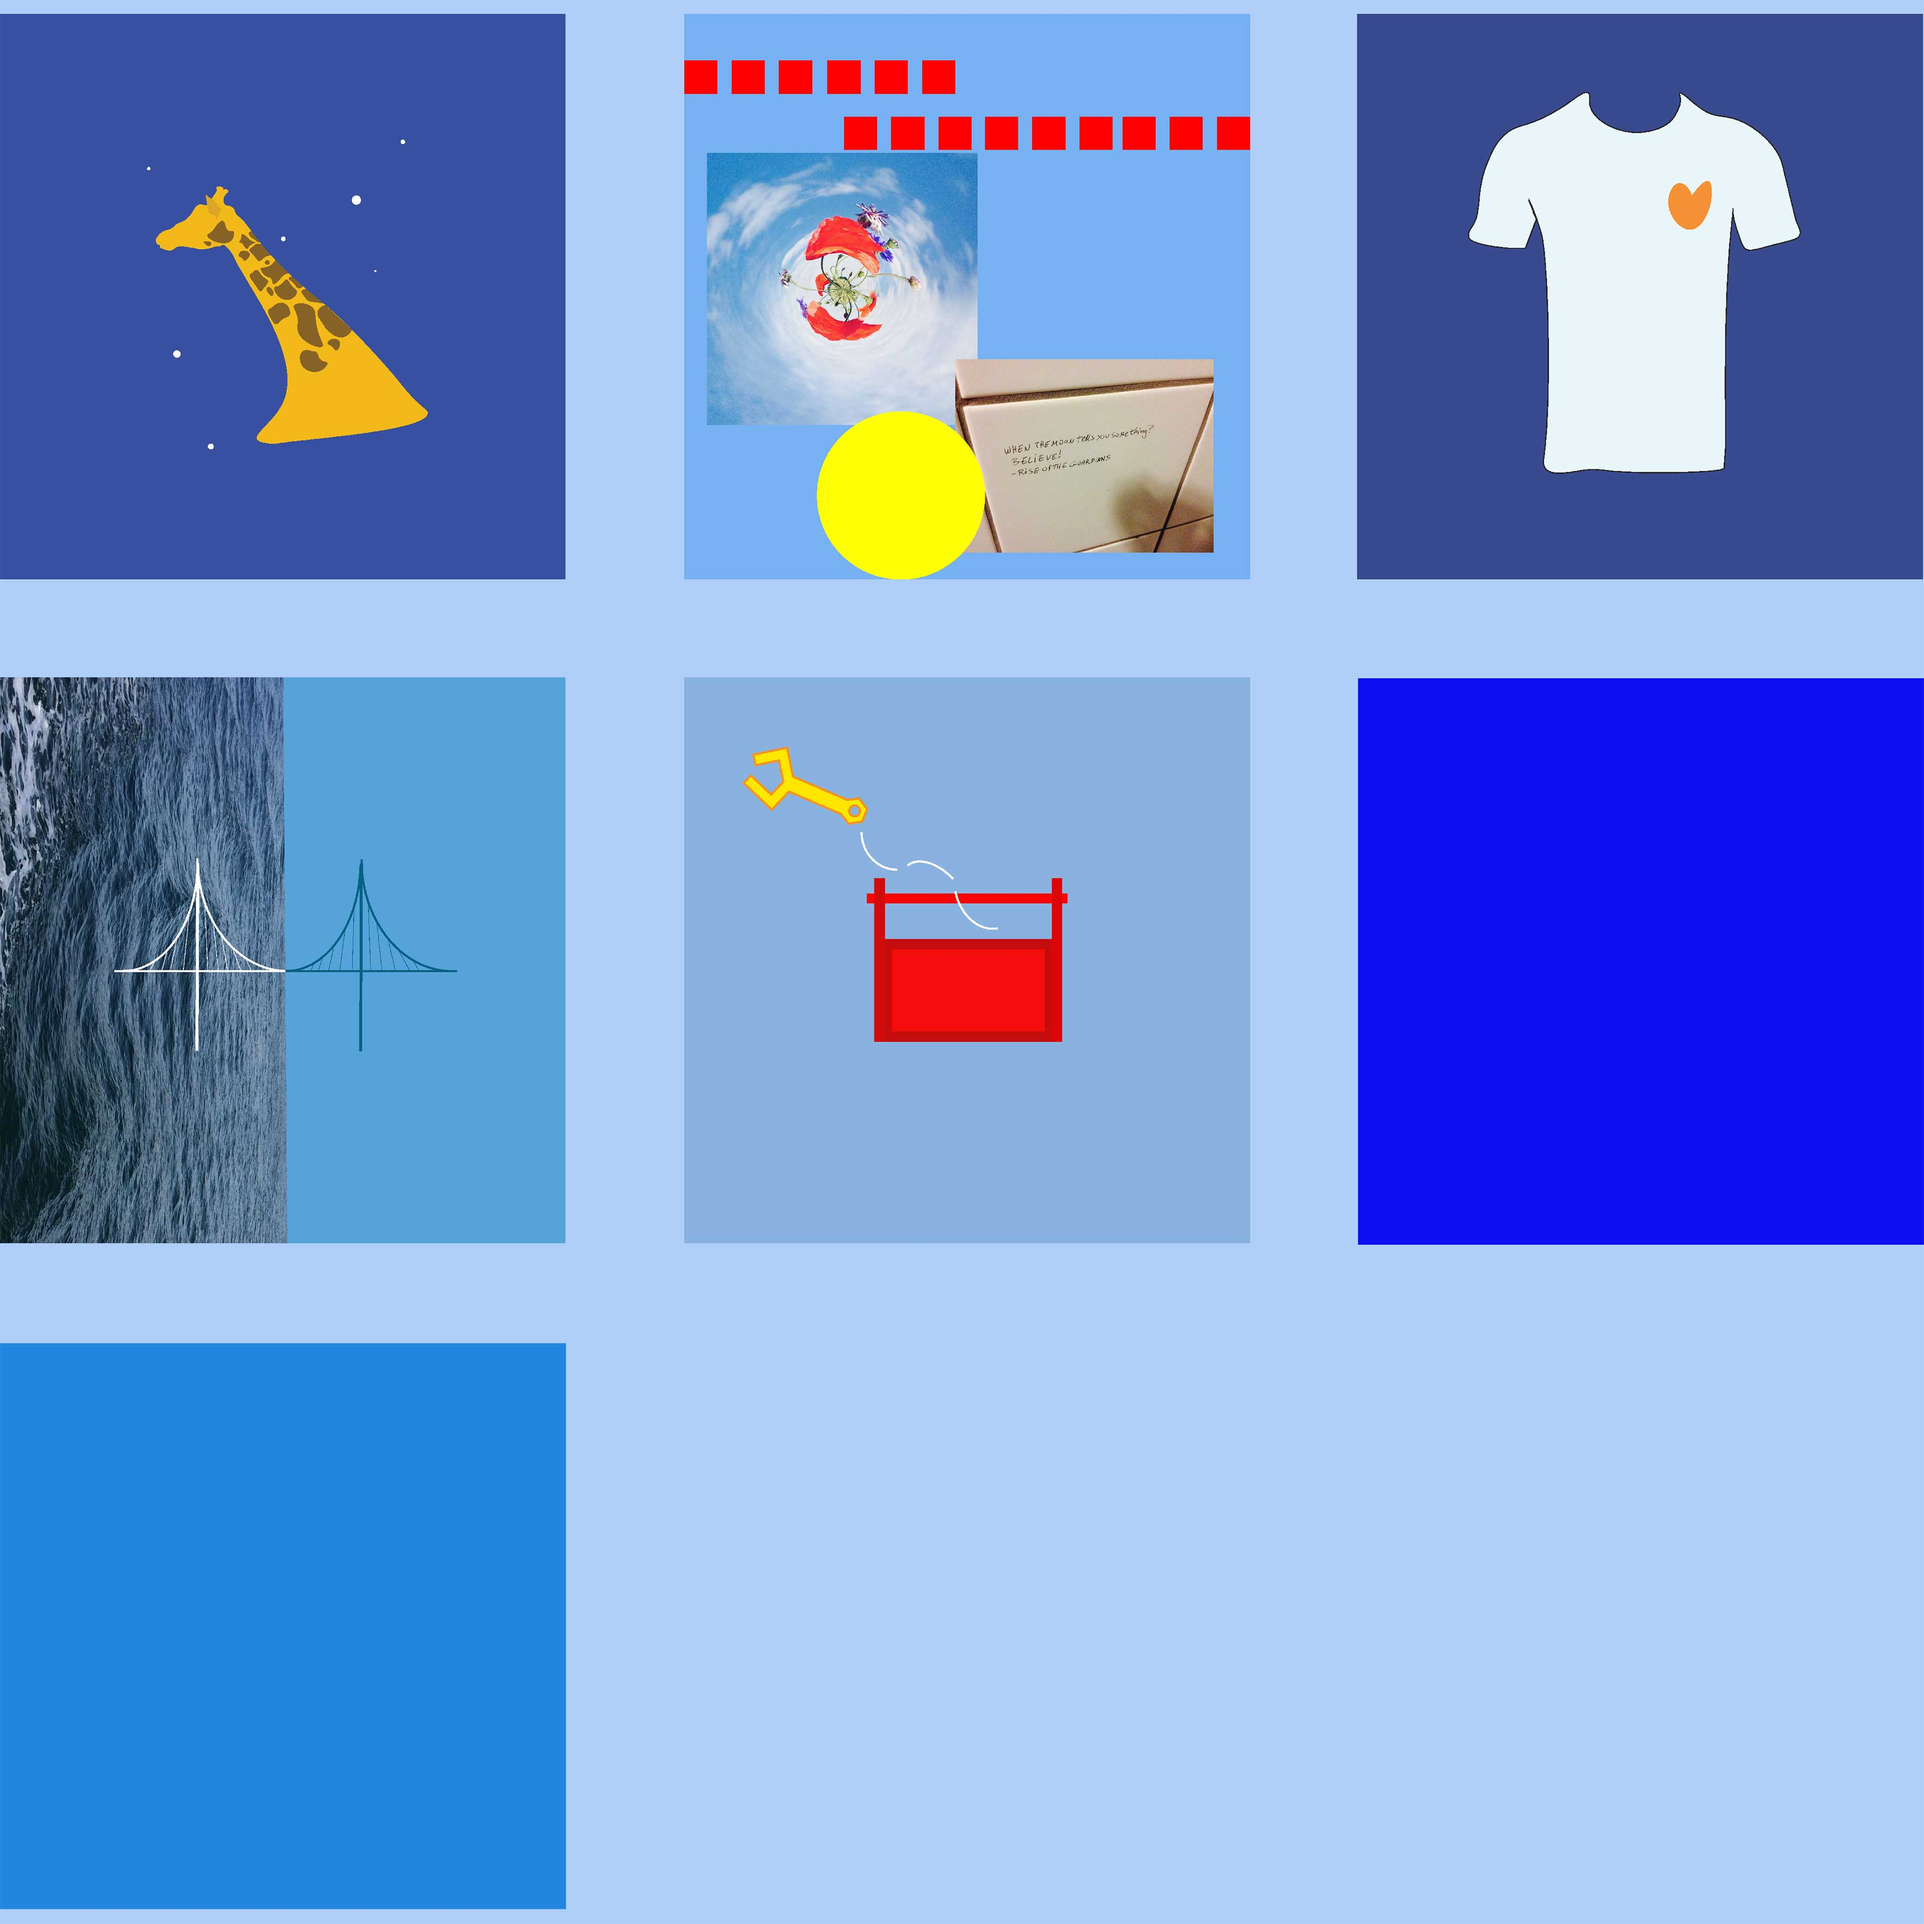
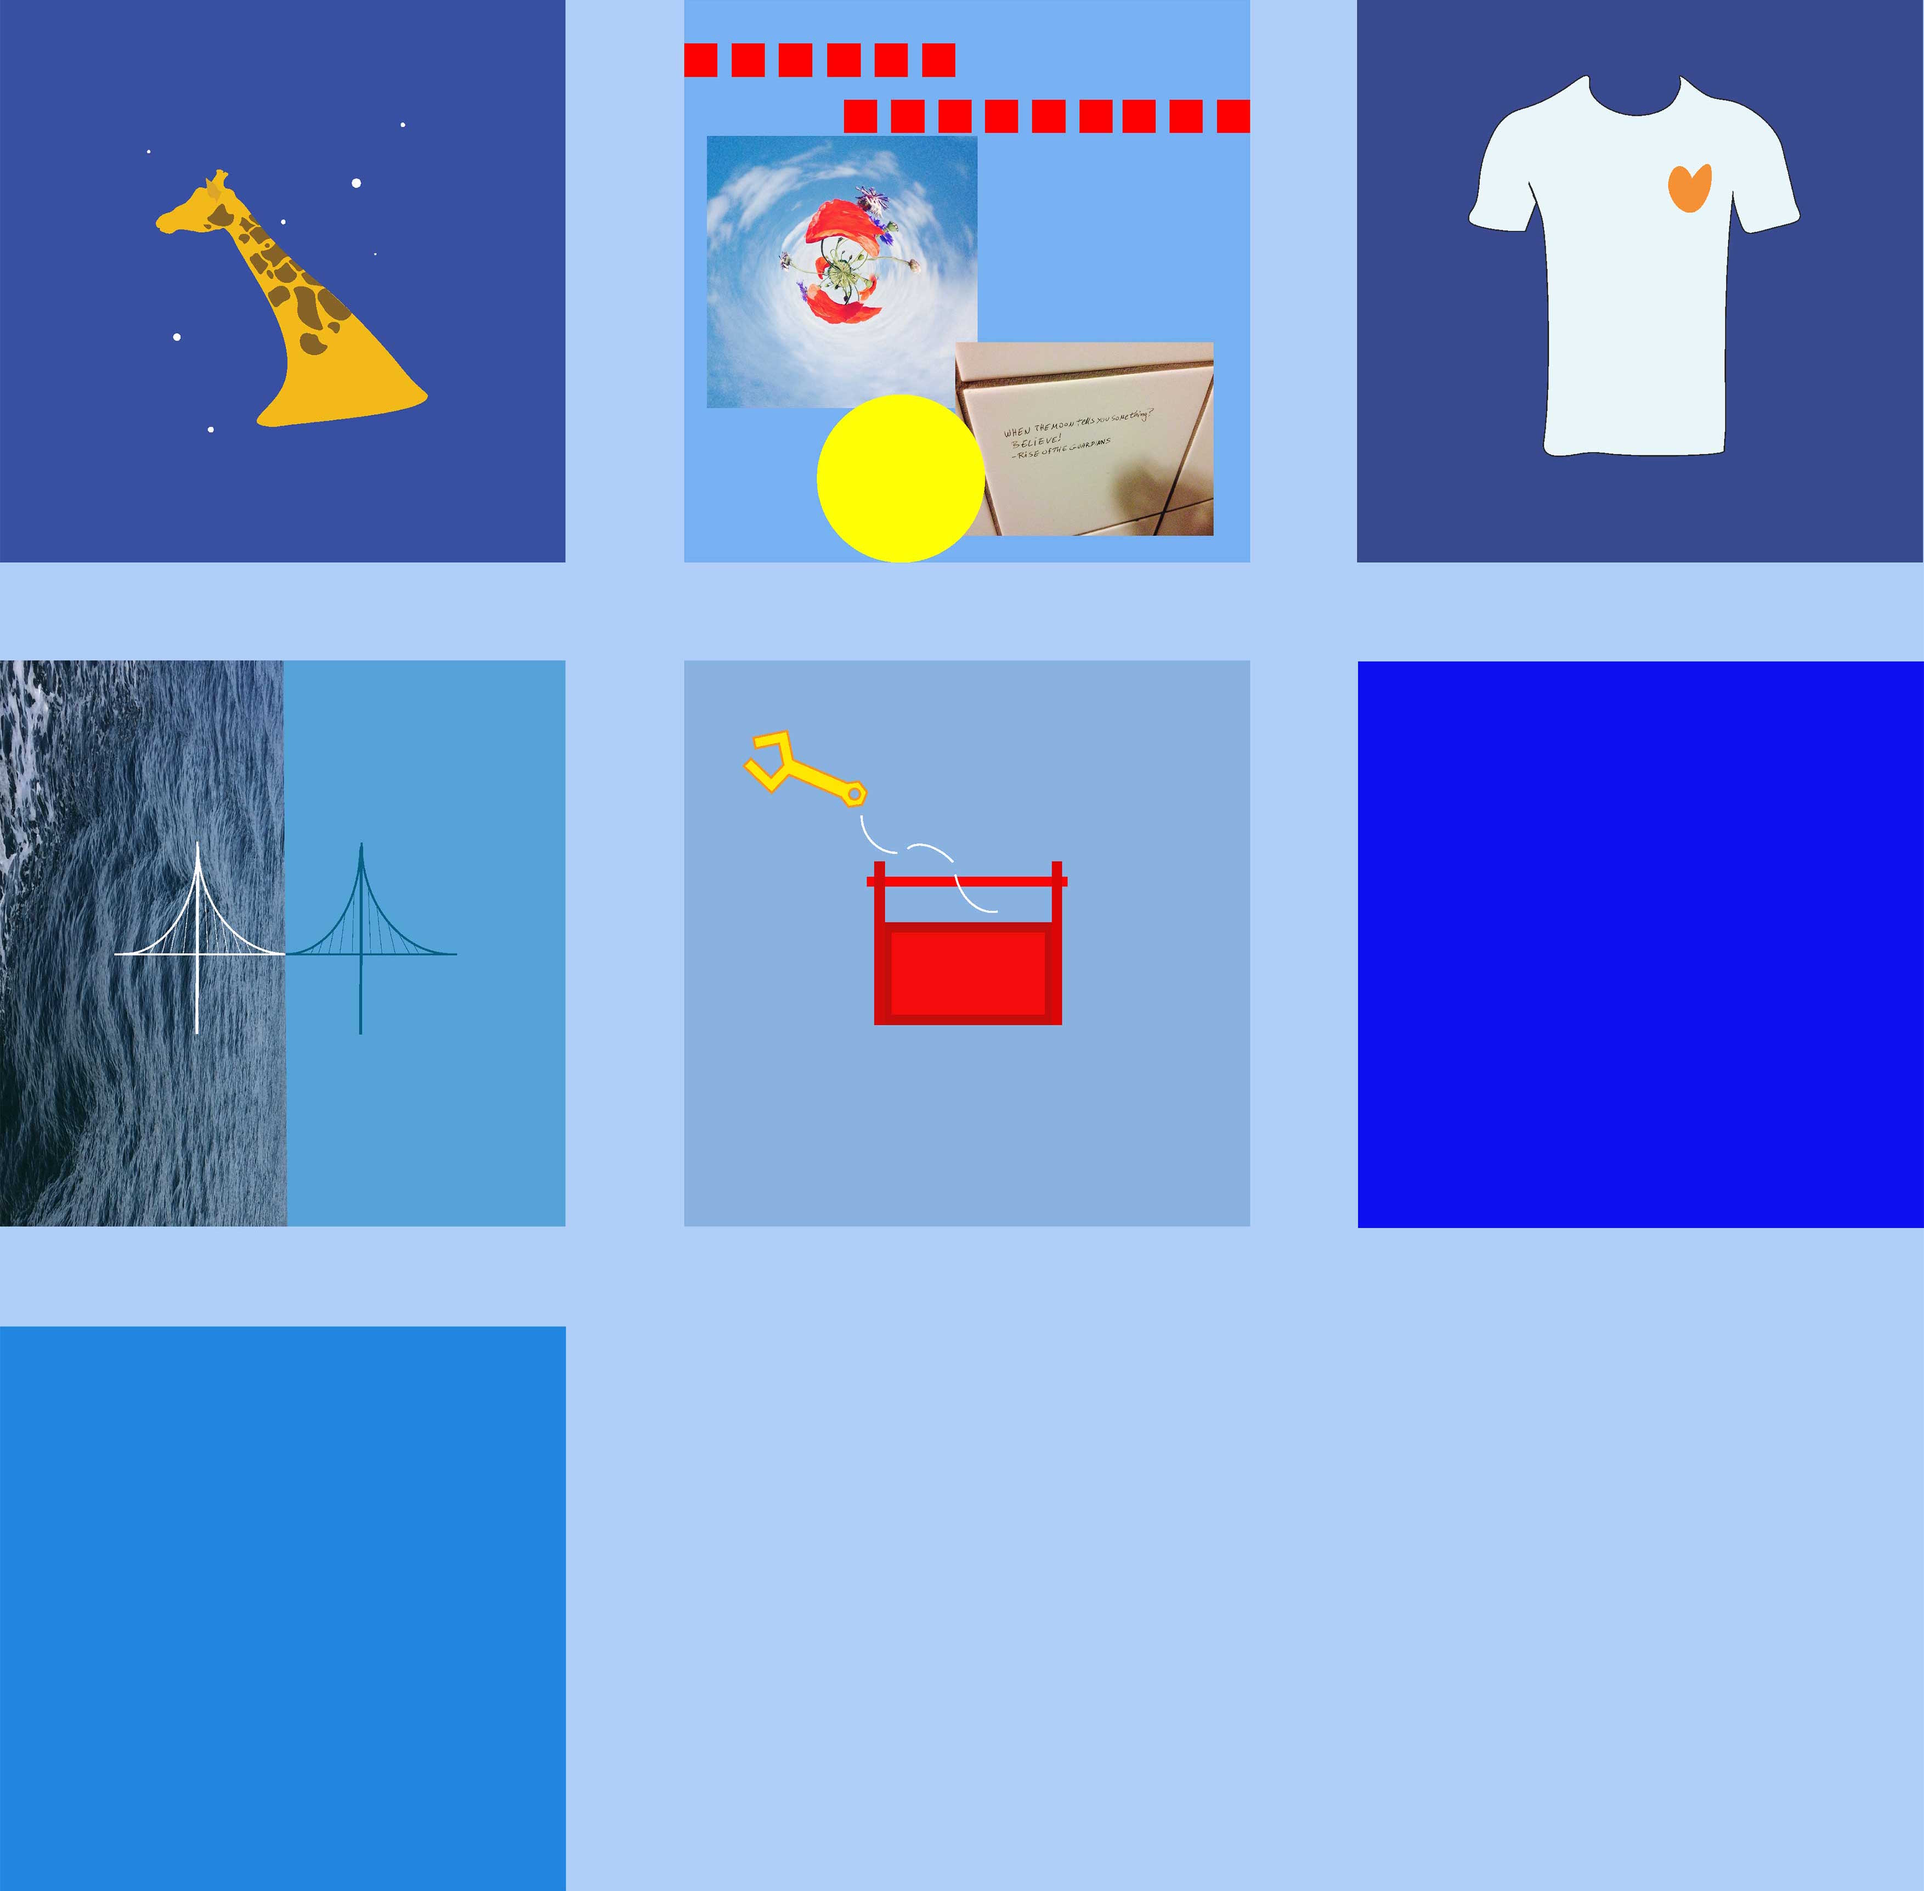
Tilføjelse af border på flowbilledebund + redigering af billeder til flow 1

diff --git a/pages/flow1.html b/pages/flow1.html
@@ -86,13 +86,6 @@
         </div>
         <div class="large-1-2 medium-1-2 small-1-1 flowbilledebund"> <img src="../images/dromdinportfolio_indhold_efter.png" width="3508" height="3508" alt="efter billede"/>
         </div> 
-		  
-		  <!--Bliver det for meget med 2Xbilleder?-->
-<!-- <div class="large-1-2 medium-1-2 small-1-1 flowbilledebund"> <img src="../images/dromdinportfolio_geofilter_for.png" width="3508" height="3508" alt="før billede"/>
-        </div>
-        <div class="large-1-2 medium-1-2 small-1-1 flowbilledebund"> <img src="../images/dromdinportfolio_geofilter_efter.png" width="3508" height="3508" alt="efter billede"/>
-        </div>-->
-		  
         <div class="large-1-1 medium-1-1 small-1-1">
           <div class="large-1-2 medium-1-2 small-1-1 flowgulplacering"><span class="flowgul"></span> <a class="flowlink" target="blank" href="https://xd.adobe.com/view/e40a6732-9f90-44ce-41f5-6a78a64c9a63-923b/?fullscreen">
             <h2 class="gultitle">Original løsning</h2>

diff --git a/styles/desktop_style.css b/styles/desktop_style.css
@@ -198,12 +198,14 @@ textarea {
     width: 80%;
     height: auto;
     margin: 15% 0 3% 0;
+/*	border: 1px solid white;*/
 }
 
 .flowbilledebund img {
 	width: 80%;
 	height: auto;
 	margin: 3% 0 10% 0; 
+	border: 1px solid white;
 }
 
 .flowbilledetekst{
